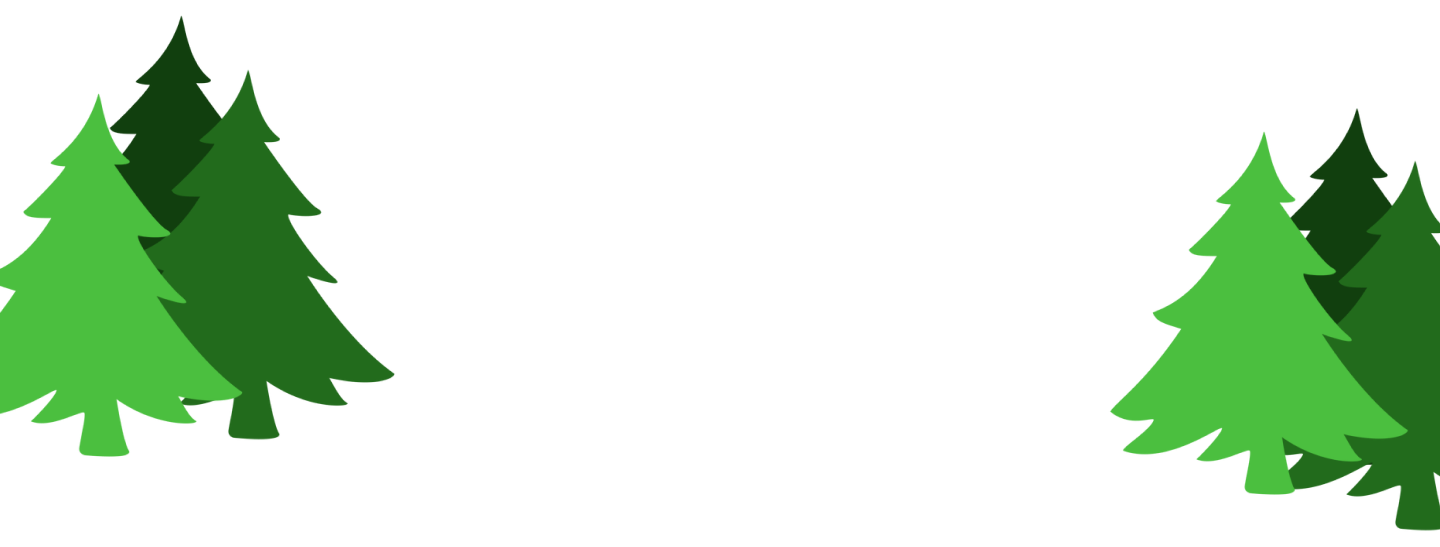
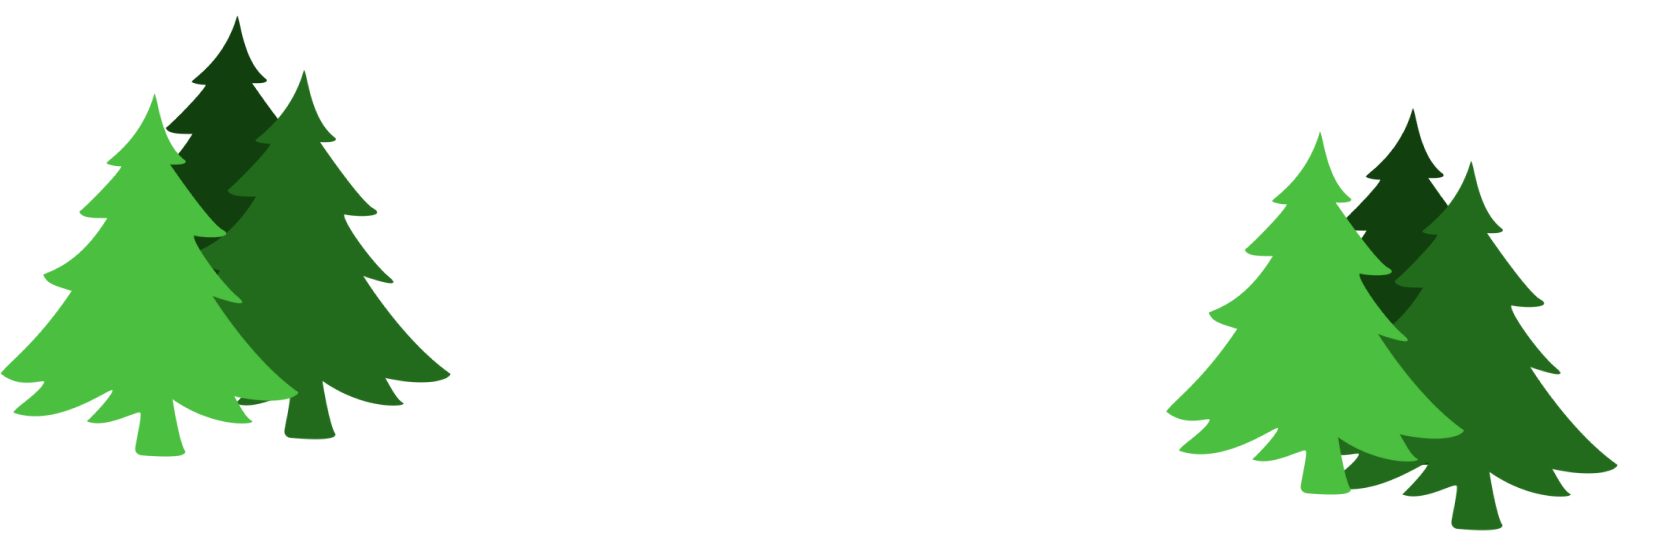
pagina divertida

Changed region(s): [[0.6875, 0.2176, 1.0, 0.9945], [0.0, 0.0311, 0.25, 0.8391], [0.2188, 0.4662, 0.25, 0.6216]]

diff --git a/index.html b/index.html
@@ -25,6 +25,9 @@
 
   
   <div class="content">
+    <a href="#"><img class="seta" src="images/seta.png" ></a>
+    <img class="grama" src="images\grama.png" >
+    <img class="arvore" src="images/arvores.png" >
     <div class="container">
       <div class="row justify-content-center">
         <!-- <div class="col-md-6 order-md-2">
@@ -51,10 +54,10 @@
                   </div>
                   
                   <div class="d-flex mb-5 align-items-center">
-                    <label class="control control--checkbox mb-0"><span class="caption">Lembre-se de mim</span>
+                    <!-- <label class="control control--checkbox mb-0"><span class="caption">Lembre-se de mim</span>
                       <input type="checkbox" checked="checked"/>
                       <div class="control__indicator"></div>
-                    </label>
+                    </label> -->
                     <span class="ml-auto"><a href="#" class="forgot-pass">Esqueci Minha Senha</a></span> 
                   </div>
 

diff --git a/css/style.css b/css/style.css
@@ -10,7 +10,7 @@ body {
   background-color: #AEE8FE; }
 
 p {
-  color: #b3b3b3;
+  color: #000000;
   font-weight: 300; }
 
 h1, h2, h3, h4, h5, h6,
@@ -31,7 +31,7 @@ h2 {
   font-size: 20px; }
 
 .form-block {
-  background: #fff;
+  background: #F27405;
   padding: 60px;
   -webkit-box-shadow: 0 2px 3px 0 rgba(0, 0, 0, 0.1);
   box-shadow: 0 2px 3px 0 rgba(0, 0, 0, 0.1); 
@@ -93,7 +93,7 @@ h2 {
   background-position: center; }
 
 .content a {
-  color: #888;
+  color: #e60c0c;
   text-decoration: underline; }
 
 .content .btn {
@@ -214,3 +214,21 @@ h2 {
 .control--checkbox input:disabled:checked ~ .control__indicator {
   background-color: #7e0cf5;
   opacity: .2; }
+
+.grama{
+  position: fixed;
+  bottom: 0;
+  align-items: center;
+  width:100%;
+}
+
+.arvore{
+  position: fixed;
+}
+
+.seta{
+  position: fixed;
+  top: 0;
+  left: 1;
+  padding: 2%;
+}
